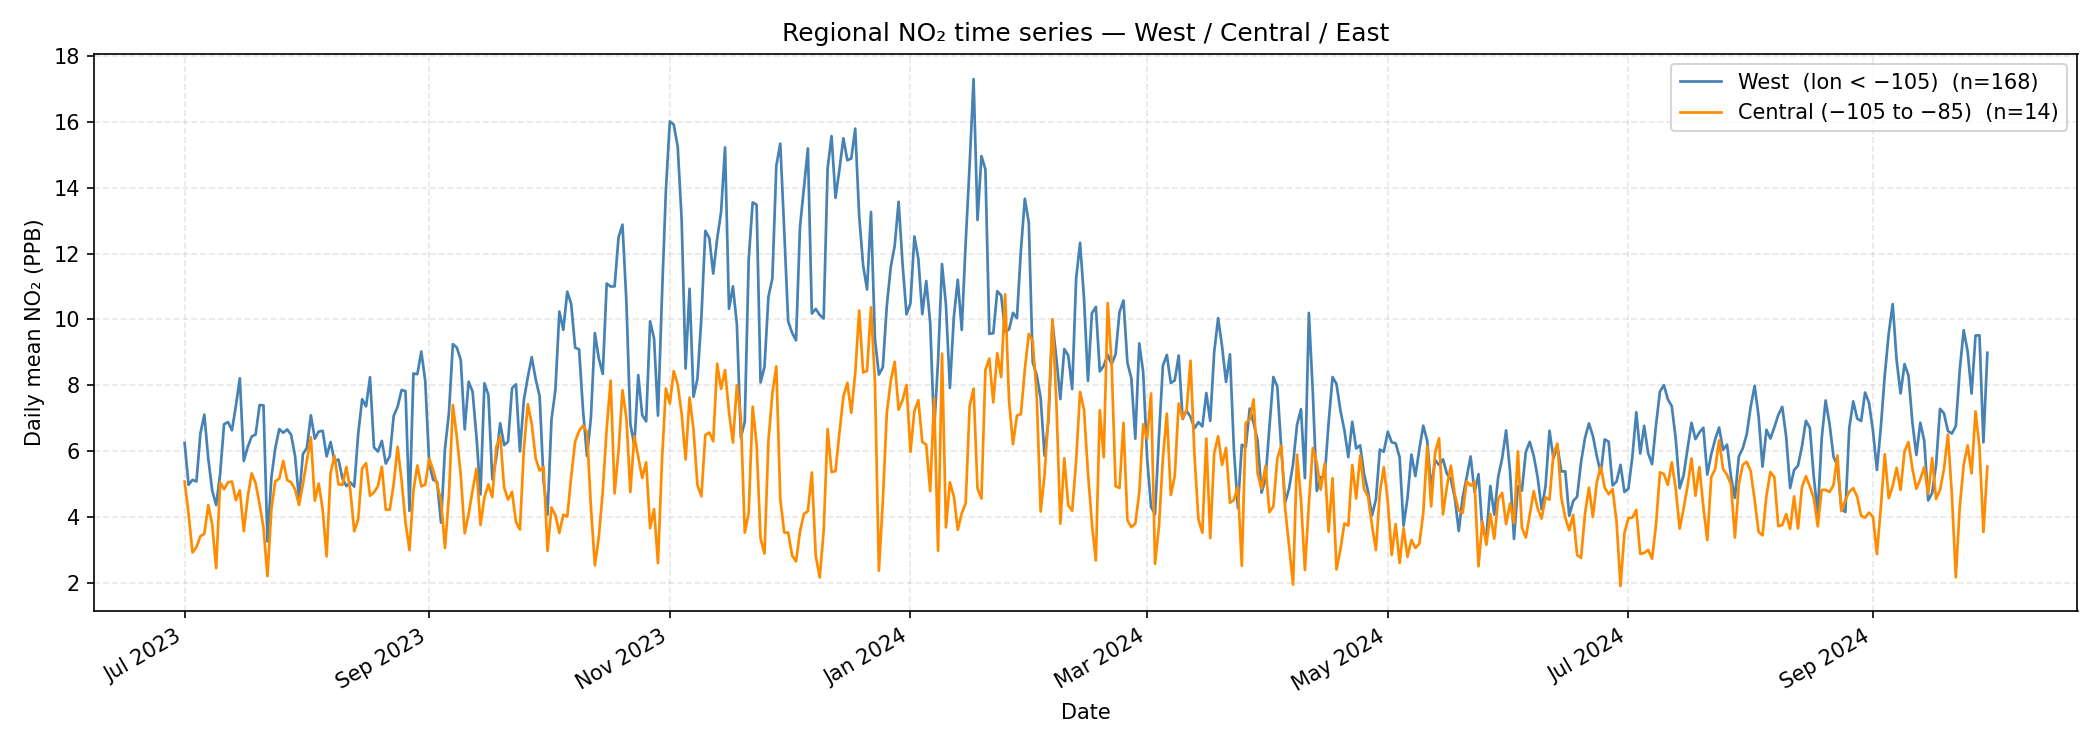
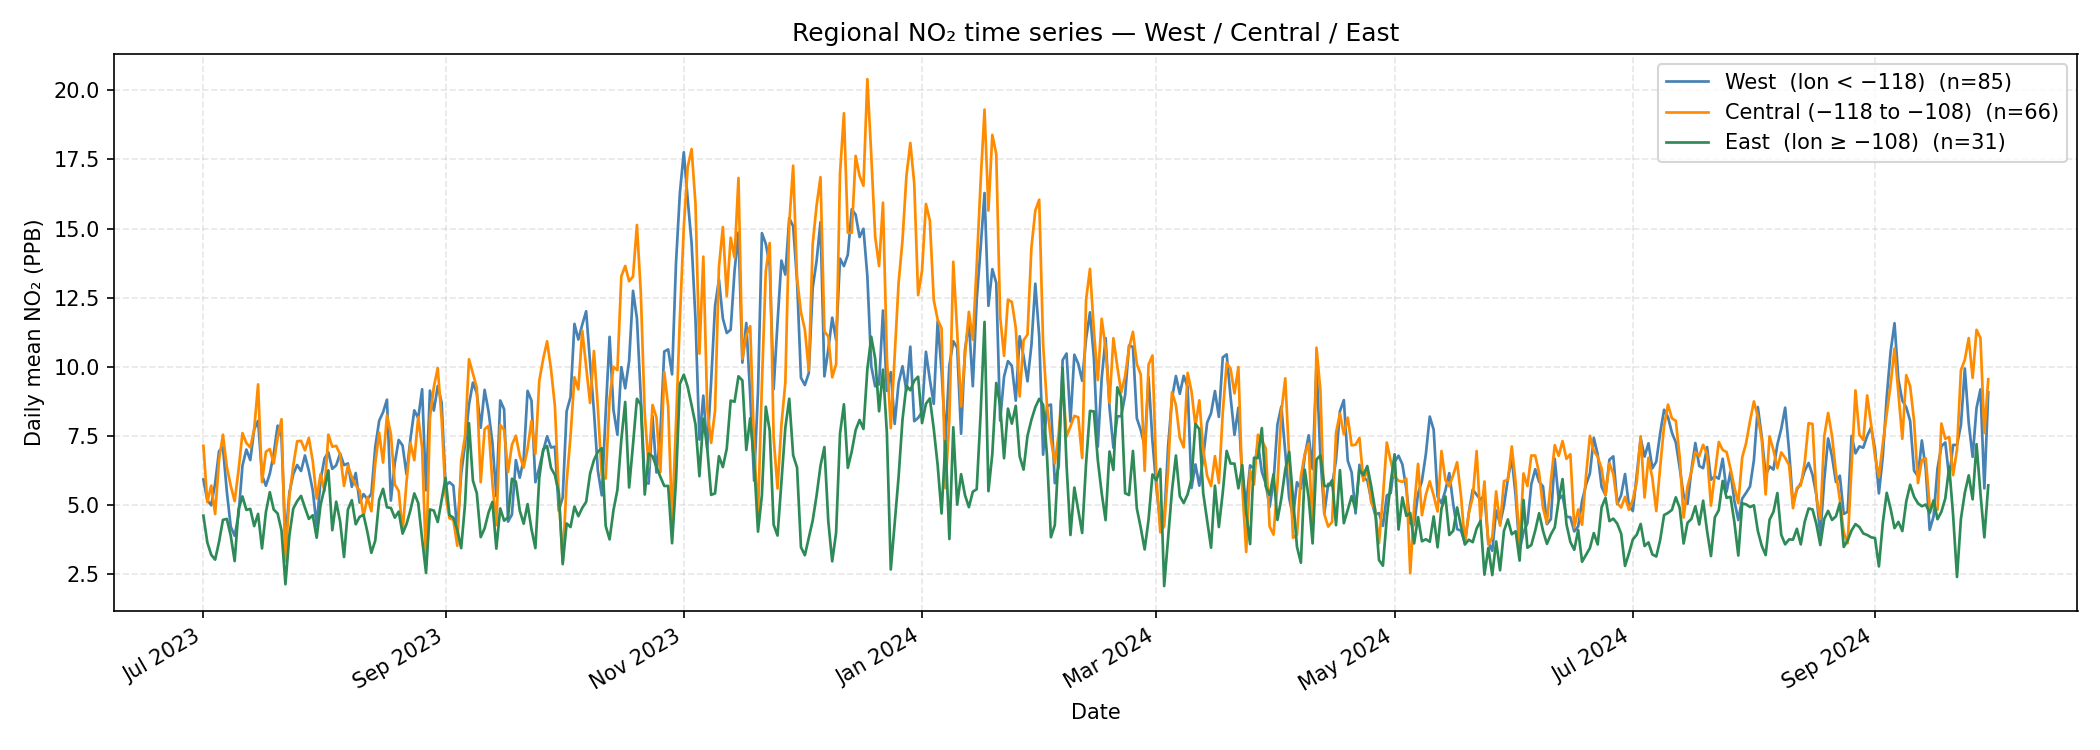
Fix ts_top_sites and ts_regional plots; update GRAPHS_GUIDE
ts_top_sites: add 7-day rolling mean overlay (thin raw line + bold smooth)
  so the chart is readable instead of jagged daily noise

ts_regional: correct longitude thresholds — original thresholds (< -105,
  -85 to -105, >= -85) placed all sites in West/Central because the dataset
  only covers -128 to -100 lon (Pacific NW to Great Plains). New thresholds
  split the actual range into thirds: West < -118 (n=85), Central -118 to
  -108 (n=66), East >= -108 (n=31). East now has data and appears in the plot.

GRAPHS_GUIDE: update regional bands description to match new thresholds.

diff --git a/GRAPHS_GUIDE.md b/GRAPHS_GUIDE.md
@@ -261,10 +261,12 @@ per-site mean normalisation applied before training.
 ![Regional NO₂ time series](plots/ts_regional.png)
 
 Three smoothed lines (daily mean resampled to daily, then plotted) showing the
-average NO₂ trajectory for stations in three geographic bands:
-- **West** (longitude < −105 °): Pacific coast + Rockies
-- **Central** (−105 ° to −85 °): Great Plains + Midwest
-- **East** (longitude ≥ −85 °): Eastern seaboard
+average NO₂ trajectory for stations in three geographic bands. The dataset covers
+roughly −128 ° to −100 ° longitude (Pacific NW to the Great Plains), so the
+boundaries are split into thirds of that range:
+- **West** (longitude < −118 °): Pacific coast + Sierra Nevada / Cascades (n ≈ 85)
+- **Central** (−118 ° to −108 °): Intermountain / Rockies (n ≈ 66)
+- **East** (longitude ≥ −108 °): Great Plains + eastern edge of coverage (n ≈ 31)
 
 **What it shows:**
 Regional synchrony and divergence. When all three lines move together, a